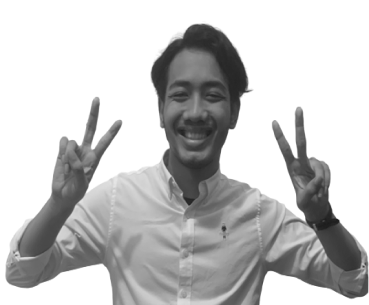
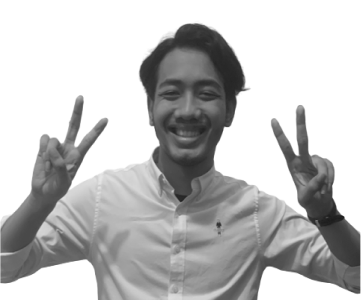
Pengurus inti done responsive

diff --git a/pages/pengurus-inti/index.tsx b/pages/pengurus-inti/index.tsx
@@ -8,22 +8,25 @@ import { User } from "@models";
 const PengurusInti = ({ user }: { user: User }) => {
     return (
         <>
-            <div className="mt-10 ">
+            <div className="mt-10 desktop:mb-0 mobile:mb-36">
                 <Header preset="h1" className="text-blue-2 text-center">
                     Pengurus Inti
                 </Header>
-                <div className="flex flex-col gap-60 mt-32 mb-10 mx-20">
+                <div className="flex flex-col desktop:gap-60 mobile:gap-24 mobile:mt-10 desktop:mt-32 desktop:mb-10 desktop:mx-20 mobile:mx-14">
                     {PENGURUS_INTI.map((pengurus, index: number) => (
                         <div className={`${index % 3 == 0 ? "" : "hidden"}`} key={index}>
                             {index % 3 == 0 && (
                                 <div key={index}>
-                                    <AnggotaShowcase arrayAnggota={PENGURUS_INTI.slice(index, index + 3)} />
+                                    <AnggotaShowcase
+                                        arrayAnggota={PENGURUS_INTI.slice(index, index + 3)}
+                                        index={index}
+                                    />
                                 </div>
                             )}
                         </div>
                     ))}
                 </div>
-                <div className="mx-20 mt-36 mb-20 flex justify-between">
+                <div className="mx-20 mt-36 mb-20 desktop:flex mobile:hidden justify-between">
                     <Navigation target="Anggota Perwakilan" url="/anggota-perwakilan" isLeft />
                     <Navigation target="Komisi DPM UI 2022" url="/komisi" isLeft={false} />
                 </div>

diff --git a/constants/PengurusInti.tsx b/constants/PengurusInti.tsx
@@ -3,44 +3,42 @@ import Abiyan from "@images/pengurus-inti/abiyan.svg";
 import Alivanza from "@images/pengurus-inti/alivanza.svg";
 import Edward from "@images/pengurus-inti/edward_hamonangan.svg";
 import Nabila from "@images/pengurus-inti/nabila_balqish.svg";
-import Satrio from "@images/anggota-perwakilan/satrio_alif.svg";
-import Farhan from "@images/anggota-perwakilan/farhan.svg";
 
 export const PENGURUS_INTI: Anggota[] = [
     {
         position: "Ketua",
         name: "M. Farhan",
         faculty: "FEB 2019",
-        image: <Farhan />,
+        image: "/assets/images/anggota-perwakilan/farhan.png",
     },
     {
         position: "Wakil Ketua",
         name: "Satrio Alif Febriyanto",
         faculty: "FH 2019",
-        image: <Satrio />,
+        image: "/assets/images/anggota-perwakilan/satrio_alif.png",
     },
     {
         position: "Sekretaris Jenderal",
         name: "Alivanza Firdaus Rhufyano",
         faculty: "FT 2020",
-        image: <Alivanza />,
+        image: "assets/images/pengurus-inti/alivanza.png",
     },
     {
         position: "Sekretaris Jenderal",
         name: "Nabila Balqish Wijayanti",
         faculty: "Vokasi 2020",
-        image: <Nabila />,
+        image: "assets/images/pengurus-inti/nabila_balqish.png",
     },
     {
         position: "Controller",
         name: "Abiyan Fathan Ramadhan",
         faculty: "FEB 2020",
-        image: <Abiyan />,
+        image: "assets/images/pengurus-inti/abiyan.png",
     },
     {
         position: "Treasurer",
         name: "Edward Xavier Hamonangan",
         faculty: "FMIPA 2020",
-        image: <Edward />,
+        image: "assets/images/pengurus-inti/edward_hamonangan.png",
     },
 ];
